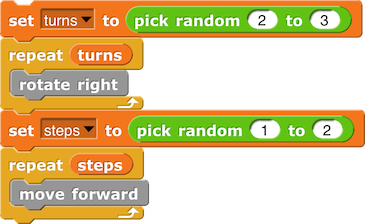
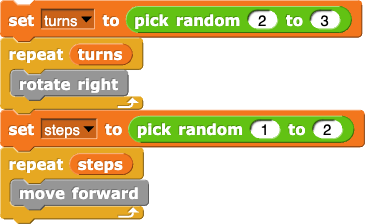
XML - 3.1.1 Images

diff --git a/cur/programming/3-lists/1-abstraction/1-robot-in-a-maze.es.html b/cur/programming/3-lists/1-abstraction/1-robot-in-a-maze.es.html
@@ -59,7 +59,7 @@
             <ol start="6">
 				<li>
 					Imagina un robot (el objeto) sentado en medio de una cuadrícula de 5×5 mirando hacia arriba. En una copia en papel de esta cuadrícula, sombrea todos los cuadrados a los que el robot <em>no pueda</em> llegar cuando se ejecute el código dado.<br />
-					<img class="indent" src="/bjc-r/img/3-lists/robot-question-1.png" alt="asignar a (turnos) el valor de (número al azar entre (2) y (3))
+					<img class="indent" src="/bjc-r/img/3-lists/robot-question-1.es.png" alt="asignar a (turnos) el valor de (número al azar entre (2) y (3))
 repetir (turnos) {
 	girar a la derecha
 }
